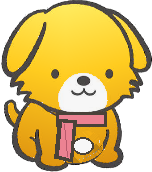
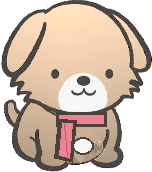
음악 확인 창의 재생은 비치는 알약으로, 나중에는 테두리만 두게 하고, 강아지 털은 연한 베이지로 바꿨습니다.

diff --git a/css/style.css b/css/style.css
@@ -653,30 +653,49 @@ html.is_music_list_open .top_bar {
 .music_offer_actions {
   display: flex;
   justify-content: flex-end;
-  gap: 8px;
+  gap: 10px;
   margin-top: 18px;
 }
 
+/* 재생은 유리처럼 비치고, 나중에는 테두리만 있는 같은 높이의 알약입니다. */
 .music_offer_yes,
 .music_offer_no {
-  min-height: 36px;
-  padding: 0 14px;
-  border: 0;
+  min-height: 40px;
+  padding: 0 16px;
   border-radius: 999px;
   font-family: var(--font_label);
   font-size: 13px;
-  font-weight: 600;
+  font-weight: 500;
+  letter-spacing: 0.02em;
   cursor: pointer;
 }
 
 .music_offer_yes {
-  background: var(--primary);
+  border: 1px solid color-mix(in srgb, var(--primary) 55%, white);
+  background: color-mix(in srgb, var(--primary) 78%, transparent);
   color: var(--on_primary);
+  box-shadow: inset 0 1px 0 rgba(255, 255, 255, 0.35);
+}
+
+.music_offer_yes:hover {
+  background: color-mix(in srgb, var(--primary) 92%, transparent);
 }
 
 .music_offer_no {
-  background: var(--chip);
+  border: 1px solid rgba(233, 226, 210, 0.45);
+  background: transparent;
   color: var(--ink_soft);
+}
+
+.music_offer_no:hover {
+  border-color: rgba(233, 226, 210, 0.8);
+  color: var(--ink);
+}
+
+.music_offer_yes:focus-visible,
+.music_offer_no:focus-visible {
+  outline: 2px solid var(--primary);
+  outline-offset: 2px;
 }
 
 /* 카메라 버튼은 오로라 그림 위에만 둡니다. 타로와 인간관계에서는 숨깁니다. */

diff --git a/index.html b/index.html
@@ -23,7 +23,7 @@
   <link rel="preconnect" href="https://fonts.googleapis.com">
   <link rel="preconnect" href="https://fonts.gstatic.com" crossorigin>
   <link href="https://fonts.googleapis.com/css2?family=Noto+Serif+KR:wght@400;500;600;700&family=Plus+Jakarta+Sans:wght@400;500;600;700&display=swap" rel="stylesheet">
-  <link rel="stylesheet" href="css/style.css?v=20261118j">
+  <link rel="stylesheet" href="css/style.css?v=20261118n">
   <link rel="stylesheet" href="css/aurora.css?v=20261117l">
   <link rel="stylesheet" href="css/relation.css">
   <!-- 화면이 그려지기 전에 디자인을 정해야 색이 깜빡이지 않습니다. -->
@@ -448,7 +448,7 @@
       <div class="music_offer_dog_track" aria-hidden="true">
         <div class="music_offer_dog">
           <div class="music_offer_dog_turn">
-            <img class="music_offer_dog_figure" src="images/music_dog.png?v=20261117z" alt="">
+            <img class="music_offer_dog_figure" src="images/music_dog.png?v=20261118m" alt="">
           </div>
         </div>
       </div>
